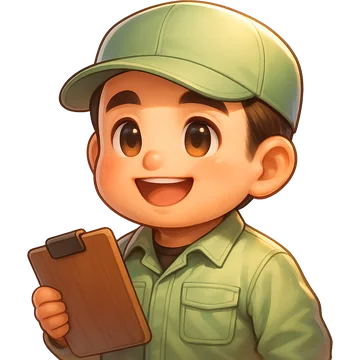
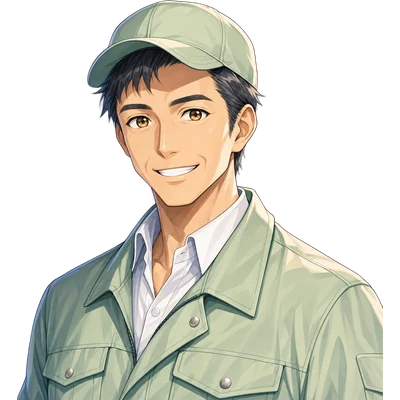
v82: キャラを今どきのアニメ塗りに作り直し、ゲーム内はHD-2D(SDちびスプライト)に
- 主人公/あつし/ゆうすけ/なおと+町の人13人を新デザイン(立ち絵・SDスプライト・会話の立ち絵・表情差分)
- 3D世界に高解像度の2Dスプライトを看板表示(正面/横/背面×待機/歩き、カメラ向きで切替、バウンド、足元の影)
- タイトル=全身立ち絵、新キービジュアル、アイコン刷新、起動時の3Dモデル読込を廃止して軽量化
- ゲームの数値・経済ロジック・セーブ形式(tamba_v28_save)は不変

Claude-Session: https://claude.ai/code/session_01QqepgrLawhvjcviMRwqKXm

diff --git a/index.html b/index.html
@@ -3,8 +3,8 @@
 <head>
 <meta charset="UTF-8">
 <meta name="viewport" content="width=device-width, initial-scale=1.0, maximum-scale=1.0, user-scalable=no, viewport-fit=cover">
-<title>丹波農商 牧場物語 v81</title>
-<meta name="tamba-build" content="v81">
+<title>丹波農商 牧場物語 v82</title>
+<meta name="tamba-build" content="v82">
 <meta name="description" content="丹波農商(兵庫県丹波市)のリアルな農業経営を、スマホで遊べる牧場ゲームで体験。米・黒毛和牛・牧草・栗・野菜を育てて会社を大きくしよう。">
 <meta name="theme-color" content="#3f8a3a">
 <meta name="mobile-web-app-capable" content="yes">
@@ -194,6 +194,14 @@
   #loading>*{position:relative;}
   #updBanner{position:fixed;left:50%;top:calc(10px + env(safe-area-inset-top));transform:translateX(-50%);z-index:90;display:none;align-items:center;gap:8px;background:#fff;border-radius:999px;padding:7px 8px 7px 14px;font-weight:800;font-size:13px;color:var(--ink);box-shadow:0 6px 20px rgba(0,0,0,.25);border:2px solid #ffc23e;}
   #updBanner button{font-weight:800;color:#fff;background:linear-gradient(#66a0f6,#3570d8);border:2px solid #fff;border-radius:999px;padding:5px 12px;font-size:13px;}
+
+  /* v82: タイトルの全身立ち絵 */
+  .tl-chars{max-height:46vh;align-items:flex-end;}
+  .tl-chars img{-webkit-mask-image:linear-gradient(#000 82%,transparent);mask-image:linear-gradient(#000 82%,transparent);height:min(29vh,290px);margin:0 -26px;animation:none;}
+  .tl-chars img.c{height:min(37vh,360px);margin:0 -10px;animation:tlb 3s ease-in-out infinite;}
+  .tl-chars img:nth-child(1),.tl-chars img:nth-child(2){filter:drop-shadow(0 6px 8px rgba(0,0,0,.25)) brightness(.96);}
+  #title::before{background:linear-gradient(rgba(255,255,255,.05),rgba(255,255,255,0) 30%,rgba(255,247,226,0) 58%,rgba(255,246,224,.80) 82%,rgba(255,244,218,.95));}
+  #loading{background-image:url(art/key.webp);}
 </style>
 </head>
 <body>
@@ -233,7 +241,7 @@
 <div id="seedPick"><div class="panel" id="seedPickBox"></div></div>
 <div id="title">
   <div class="tl-top"><div class="tl-sub1">丹波農商</div><h1>牧場物語</h1><div class="tl-badge">放置経営編</div></div>
-  <div class="tl-chars"><img src="art/p_naoto.webp" alt="なおと"><img src="art/p_atsushi.webp" alt="あつし"><img class="c" src="art/p_hero.webp" alt="主人公"><img src="art/p_yusuke.webp" alt="ゆうすけ"></div>
+  <div class="tl-chars"><img src="art/f_naoto.webp" alt="なおと"><img src="art/f_atsushi.webp" alt="あつし"><img class="c" src="art/f_hero.webp" alt="主人公"><img src="art/f_yusuke.webp" alt="ゆうすけ"></div>
   <div class="tl-bottom">
   <div class="sub">現金1,000万円と田んぼから始める農業経営シム。<br>🌾米・🐂黒毛和牛・🌿牧草・🌰栗を育てて、丹波農商を大きくしよう！</div>
   <button class="bigbtn" id="newBtn">▶ はじめる</button>
@@ -253,7 +261,7 @@
 (function(){const C=THREE.Color.prototype,oHex=C.setHex,oStyle=C.setStyle;let inStyle=false;
   C.setHex=function(h){oHex.call(this,h);if(!inStyle)this.convertSRGBToLinear();return this;};
   C.setStyle=function(st){inStyle=true;try{oStyle.call(this,st);}finally{inStyle=false;}return this.convertSRGBToLinear();};})();
-const GAME_BUILD='v81';
+const GAME_BUILD='v82';
 /* =====================================================================
    丹波農商 牧場物語 v24 — 牛まわりの大改修(屋根バグ修正・牛舎拡大・繋留と散歩・糞は足元)
    v24: v23の全機能を維持したまま牛まわりを4点改修。セーブはv20キー(tamba_v20_save)を共用。
@@ -1952,6 +1960,7 @@ function v81Frame(dt,sky,dayness,eve){
   scene.fog.color.copy(_fogc);
   V81U.uSkyH.value.copy(_fogc);
   sun.intensity*=1.5;hemi.intensity*=1.15;
+  v82Light=0.36+0.64*dayness+0.05*eve; // v82: スプライトの明るさ(夜は暗く)
   if(v81Sky){
     v81Sky.position.copy(camera.position);
     const u=v81Sky.material.uniforms;
@@ -2062,13 +2071,13 @@ function v81PigGeo(){
   return V81_PIG_GEO;
 }
 // ---- 会話ウィンドウ(立ち絵つき) ----
-const V81_PORTRAITS={hero:1,atsushi:1,yusuke:1,naoto:1,ryunosuke:1,ami:1,yakuba:1,ginko:1,juui:1,nokyo:1,seriman:1,shuriya:1,fudosan:1};
+const V81_PORTRAITS={hero:1,atsushi:1,yusuke:1,naoto:1,ryunosuke:1,ami:1,yakuba:1,ginko:1,juui:1,nokyo:1,seriman:1,shuriya:1,fudosan:1,obaachan:1,ojiichan:1,shufu:1,kodomo:1};
 function portraitKeyOf(n){if(!n)return null;if(n.cfg&&n.cfg.menu==='land')return 'fudosan';return V81_PORTRAITS[n.key]?n.key:null;}
 let v81TalkTimer=null;
 function showTalk(n,line){
   const el=document.getElementById('talk');if(!el){toast('💬 '+n.cfg.name+'「'+line+'」');return;}
   const pk=portraitKeyOf(n),img=document.getElementById('talkImg');
-  if(pk){img.src='art/p_'+pk+'.webp';el.classList.remove('noimg');}else{img.removeAttribute('src');el.classList.add('noimg');}
+  if(pk){img.src='art/p_'+pk+v82Expr(pk,line)+'.webp';el.classList.remove('noimg');}else{img.removeAttribute('src');el.classList.add('noimg');}
   document.getElementById('talkName').textContent=n.cfg.name+(n.cfg.role?'  ·  '+n.cfg.role:'');
   document.getElementById('talkText').textContent=line;
   el.classList.remove('on');void el.offsetWidth;el.classList.add('on');
@@ -3600,6 +3609,7 @@ function makeAnimRig(model,walkClip,runClip,idleClip){
 }
 // idle⇔walk⇔runをcrossFade(0.2)で切替。spd=実移動速度(units/s)→timeScaleで足滑り低減
 function rigPlay(rig,name,spd){
+  if(rig&&rig.sprite){rig.cur=name;rig.spd=spd;return;} // v82: スプライトキャラ
   const to=name==='walk'?rig.actWalk:(name==='run'?rig.actRun:rig.actIdle);
   if(!to)return;
   if(name==='walk')to.timeScale=Math.max(0.9,Math.min(0.42*(spd||0),3.2));
@@ -3617,6 +3627,89 @@ function rigPlay(rig,name,spd){
   }
   if(from&&from!==to)from.crossFadeTo(to,0.2,false);
   rig.cur=name;
+}
+
+// =====================================================================
+// v82: キャラを「HD-2D」方式に。3D世界にアニメ塗りのSDちびスプライトを看板表示。
+//  スプライト=sprites/s_<key>.webp(3列×2行: 上段=待機 正面/横(右向き)/背面, 下段=歩き 同順)
+//  カメラから見た向きで 正面/背面/横(左右は反転) を切り替え、歩きは2コマ+反転+上下バウンド。
+// =====================================================================
+const V82_SPRITES={hero:1,atsushi:1,yusuke:1,naoto:1,ryunosuke:1,ami:1,yakuba:1,ginko:1,fudosan:1,shuriya:1,juui:1,nokyo:1,seriman:1,obaachan:1,ojiichan:1,shufu:1,kodomo:1};
+const V82_MAIN={hero:1,atsushi:1,yusuke:1,naoto:1}; // 表情差分あり
+function v82KeyOf(n){
+  if(!n)return null;
+  if(n.cfg&&n.cfg.menu==='land')return 'fudosan';
+  return V82_SPRITES[n.key]?n.key:null;
+}
+const v82Tex={},v82Mats=[];
+let v82Light=1;
+const v82Loader=new THREE.TextureLoader();
+function v82LoadTex(key){
+  if(v82Tex[key])return v82Tex[key];
+  v82Tex[key]=new Promise((res,rej)=>{
+    v82Loader.load('sprites/s_'+key+'.webp',t=>{
+      t.encoding=THREE.sRGBEncoding;t.anisotropy=4;t.generateMipmaps=true;t.minFilter=THREE.LinearMipmapLinearFilter;t.magFilter=THREE.LinearFilter;
+      res(t);},undefined,e=>rej(e));
+  });
+  return v82Tex[key];
+}
+const V82_BLOB_GEO=new THREE.CircleGeometry(0.5,20),V82_BLOB_MAT=new THREE.MeshBasicMaterial({color:0x1a1408,transparent:true,opacity:0.32,depthWrite:false,toneMapped:false});
+const _v82w=new THREE.Vector3();
+function v82MakeSprite(key,height){
+  const H=height*1.28,W=H*0.8; // SDは頭が大きいので少し大きめに見せる
+  const grp=new THREE.Group();
+  const blob=new THREE.Mesh(V82_BLOB_GEO,V82_BLOB_MAT);blob.rotation.x=-Math.PI/2;blob.position.y=0.03;blob.scale.set(W*0.62,W*0.36,1);grp.add(blob);
+  const geo=new THREE.PlaneGeometry(W,H);geo.translate(0,H/2-H*0.012,0);
+  const mat=new THREE.MeshBasicMaterial({transparent:true,alphaTest:0.35,side:THREE.DoubleSide,toneMapped:false,depthWrite:true});
+  const plane=new THREE.Mesh(geo,mat);plane.visible=false;plane.renderOrder=2;
+  const pivot=new THREE.Group();pivot.add(plane);grp.add(pivot);
+  v82Mats.push(mat);
+  const rig={sprite:true,cur:'idle',spd:0,t:Math.random()*10,actRun:true,actWalk:true,actIdle:true,key,
+    mixer:{update:dt=>v82Update(rig,dt)},grp,plane,pivot,mat,H,W,tex:null,frame:-1,flip:false};
+  const ready=v82LoadTex(key).then(base=>{
+    const t=base.clone();t.needsUpdate=true;t.repeat.set(1/3,1/2);rig.tex=t;mat.map=t;mat.needsUpdate=true;plane.visible=true;v82SetFrame(rig,0,false);return rig;
+  });
+  return {group:grp,rig,ready};
+}
+function v82SetFrame(rig,f,flip){
+  if(!rig.tex)return;
+  if(rig.frame!==f){rig.frame=f;rig.tex.offset.set((f%3)/3,f<3?0.5:0);}
+  if(rig.flip!==flip){rig.flip=flip;rig.plane.scale.x=flip?-1:1;}
+}
+function v82Update(rig,dt){
+  if(!rig.tex||!camera)return;
+  const g=rig.grp;
+  g.getWorldPosition(_v82w);
+  // ホルダー(向き=rotation.y)のワールド回転
+  let host=g.parent,ry=0;while(host){ry+=host.rotation.y;host=host.parent;}
+  const cy=Math.atan2(camera.position.x-_v82w.x,camera.position.z-_v82w.z);
+  rig.pivot.rotation.y=cy-ry; // 板は常にカメラを向く(Y軸のみ)
+  let d=ry-cy;while(d>Math.PI)d-=Math.PI*2;while(d<-Math.PI)d+=Math.PI*2;
+  const ad=Math.abs(d);
+  const view=ad<Math.PI*0.27?0:(ad>Math.PI*0.73?2:1); // 0正面 1横 2背面
+  const moving=rig.cur==='walk'||rig.cur==='run';
+  const rate=rig.cur==='run'?9.5:Math.max(5.5,Math.min(9,(rig.spd||2)*1.6));
+  rig.t+=dt*(moving?rate:1);
+  let f=view,flip=(view===1&&d<0);
+  let bob=0,sq=1;
+  if(moving){
+    const step=Math.floor(rig.t/Math.PI)%4; // 0:歩A 1:待機 2:歩A反転(正面/背面)or歩A 3:待機
+    if(step===0||step===2){f=3+view;if(view!==1&&step===2)flip=!flip;}
+    bob=Math.abs(Math.sin(rig.t))*0.045*rig.H;
+  }else{
+    sq=1+0.014*Math.sin(rig.t*2.2);
+  }
+  v82SetFrame(rig,f,flip);
+  rig.plane.position.y=bob;
+  rig.plane.scale.y=sq;
+  rig.mat.color.setScalar(v82Light);
+}
+// 会話の表情(本編の4人は表情差分つき)
+function v82Expr(key,line){
+  if(!V82_MAIN[key])return '';
+  if(/⚠|倒産|赤字|足りない|ダメ/.test(line))return '_4';
+  if(/！|♪|🎉|すごい|ありがとう/.test(line))return '_2';
+  return '';
 }
 
 // ---------- プレイヤー（麦わら帽子の農家キッズ） ----------
@@ -3664,44 +3757,31 @@ function finishLoading(ok){
   }
 }
 // 主人公：mhero_walk.glb＋mhero_run.glbを読み、完了したらボクセルと差し替え
-function loadPlayerGLB(){
-  const note=document.getElementById('glbNote');
-  if(!getLoader()){finishLoading(false);loadNPCGLBs();return;}
-  note.style.display='block';
-  (async()=>{
-    try{
-      const wg=await loadGLB(HERO.walk,x=>{
-        if(x.total){const p=Math.round(x.loaded/x.total*50);note.textContent='3Dキャラ読み込み中… '+p+'%';setLoadMsg('3Dキャラを読み込み中… '+p+'%');}});
-      const rg=await loadGLB(HERO.run,x=>{
-        if(x.total){const p=50+Math.round(x.loaded/x.total*50);note.textContent='3Dキャラ読み込み中… '+p+'%';setLoadMsg('3Dキャラを読み込み中… '+p+'%');}});
-      const model=wg.scene;
-      // walkモデルにrun.glbのクリップを載せ替え（同一Mixamoスケルトン）
-      playerRig=makeAnimRig(model,wg.animations&&wg.animations[0],rg.animations&&rg.animations[0]);
-      const wrap=meshyWrap(model,playerRig.mixer,HERO_H,'hero');
-      window.__v4dbg.playerRig=playerRig; // 検証用
-      avatarGlb=wrap;
-      if(avatarVox){avatar.remove(avatarVox);avatarVox=null;}
-      avatar.add(avatarGlb);
-      note.style.display='none';
-      window.__v4dbg.playerGlb=true;
-      finishLoading(true); // v15: ここで初めて画面を見せる(最初からMeshyキャラ)
-    }catch(e){
-      note.style.display='none';
-      window.__v4dbg.errors.push('player:'+(e&&e.message||e));
-      finishLoading(false);
-    }
-    loadNPCGLBs(); // プレイヤーの後に順次（同時ロードを絞る）
-  })();
+function loadPlayerGLB(){ // v82: 主人公=アニメ塗りSDスプライト(HD-2D)
+  setLoadMsg('キャラクターを準備中…');
+  const r=v82MakeSprite('hero',HERO_H);
+  playerRig=r.rig;window.__v4dbg.playerRig=playerRig;
+  avatarGlb=r.group;
+  if(avatarVox){avatar.remove(avatarVox);avatarVox=null;}
+  avatar.add(avatarGlb);
+  r.ready.then(()=>{window.__v4dbg.playerGlb=true;finishLoading(true);loadNPCGLBs();})
+   .catch(e=>{window.__v4dbg.errors.push('player:'+(e&&e.message||e));finishLoading(false);loadNPCGLBs();});
 }
 // NPC：m*_walk.glbを1体ずつ順番に読み込み（同時ロード1本）。
 // 立ち姿はwalkの1フレーム目で静止（idleクリップは無い）。
 // v15: NPCのボクセル代替も開始時は非表示。GLB成功でそのままMeshyに、
 //      失敗した個体だけボクセルを表示（フォールバック）。
 function loadNPCGLBs(){
-  if(!getLoader()){for(const n of npcs)if(n.vox)n.vox.visible=true;return;}
   window.__v4dbg.npcModels={}; // v20: 検証用(どのGLBで表示されているか)
   (async()=>{
     for(const n of npcs){
+      const sk=v82KeyOf(n); // v82: SDスプライト(HD-2D)
+      if(sk){
+        const r=v82MakeSprite(sk,n.cfg.h||CHAR_H);n.rig=r.rig;
+        if(n.vox){n.mesh.remove(n.vox);n.vox=null;}
+        n.mesh.add(r.group);window.__v4dbg.npcGlb++;window.__v4dbg.npcModels[n.key]='sprite:'+sk;
+        continue;
+      }
       let loaded=false;
       for(let ui=0;ui<n.urls.length&&!loaded;ui++){
         try{

diff --git a/sw.js b/sw.js
@@ -2,11 +2,11 @@
 // - ゲーム本体(index.html)と version.json は「ネット優先」= 更新は次に開いた時に必ず反映(古い版が残らない)
 // - 3Dモデル・画像・ライブラリは「キャッシュ優先」= 2回目以降は一瞬で起動・オフラインでも遊べる
 // - 素材を差し替えた時は ASSET_VER を上げる(古いキャッシュは自動で消える)
-const ASSET_VER = 'tamba-assets-v81';
+const ASSET_VER = 'tamba-assets-v82';
 const PAGE_CACHE = 'tamba-page';
 const CORE = ['./', 'lib/three.min.js', 'lib/GLTFLoader.js', 'lib/DRACOLoader.js',
   'lib/draco/draco_wasm_wrapper.js', 'lib/draco/draco_decoder.wasm',
-  'char_min/mhero_walk.glb', 'char_min/mhero_run.glb', 'art/keyart.webp', 'icons/icon-192.png'];
+  'sprites/s_hero.webp', 'art/keyart.webp', 'icons/icon-192.png'];
 self.addEventListener('install', e => {
   self.skipWaiting();
   e.waitUntil(caches.open(ASSET_VER).then(c => c.addAll(CORE.filter(u => u !== './'))).catch(() => {}));
